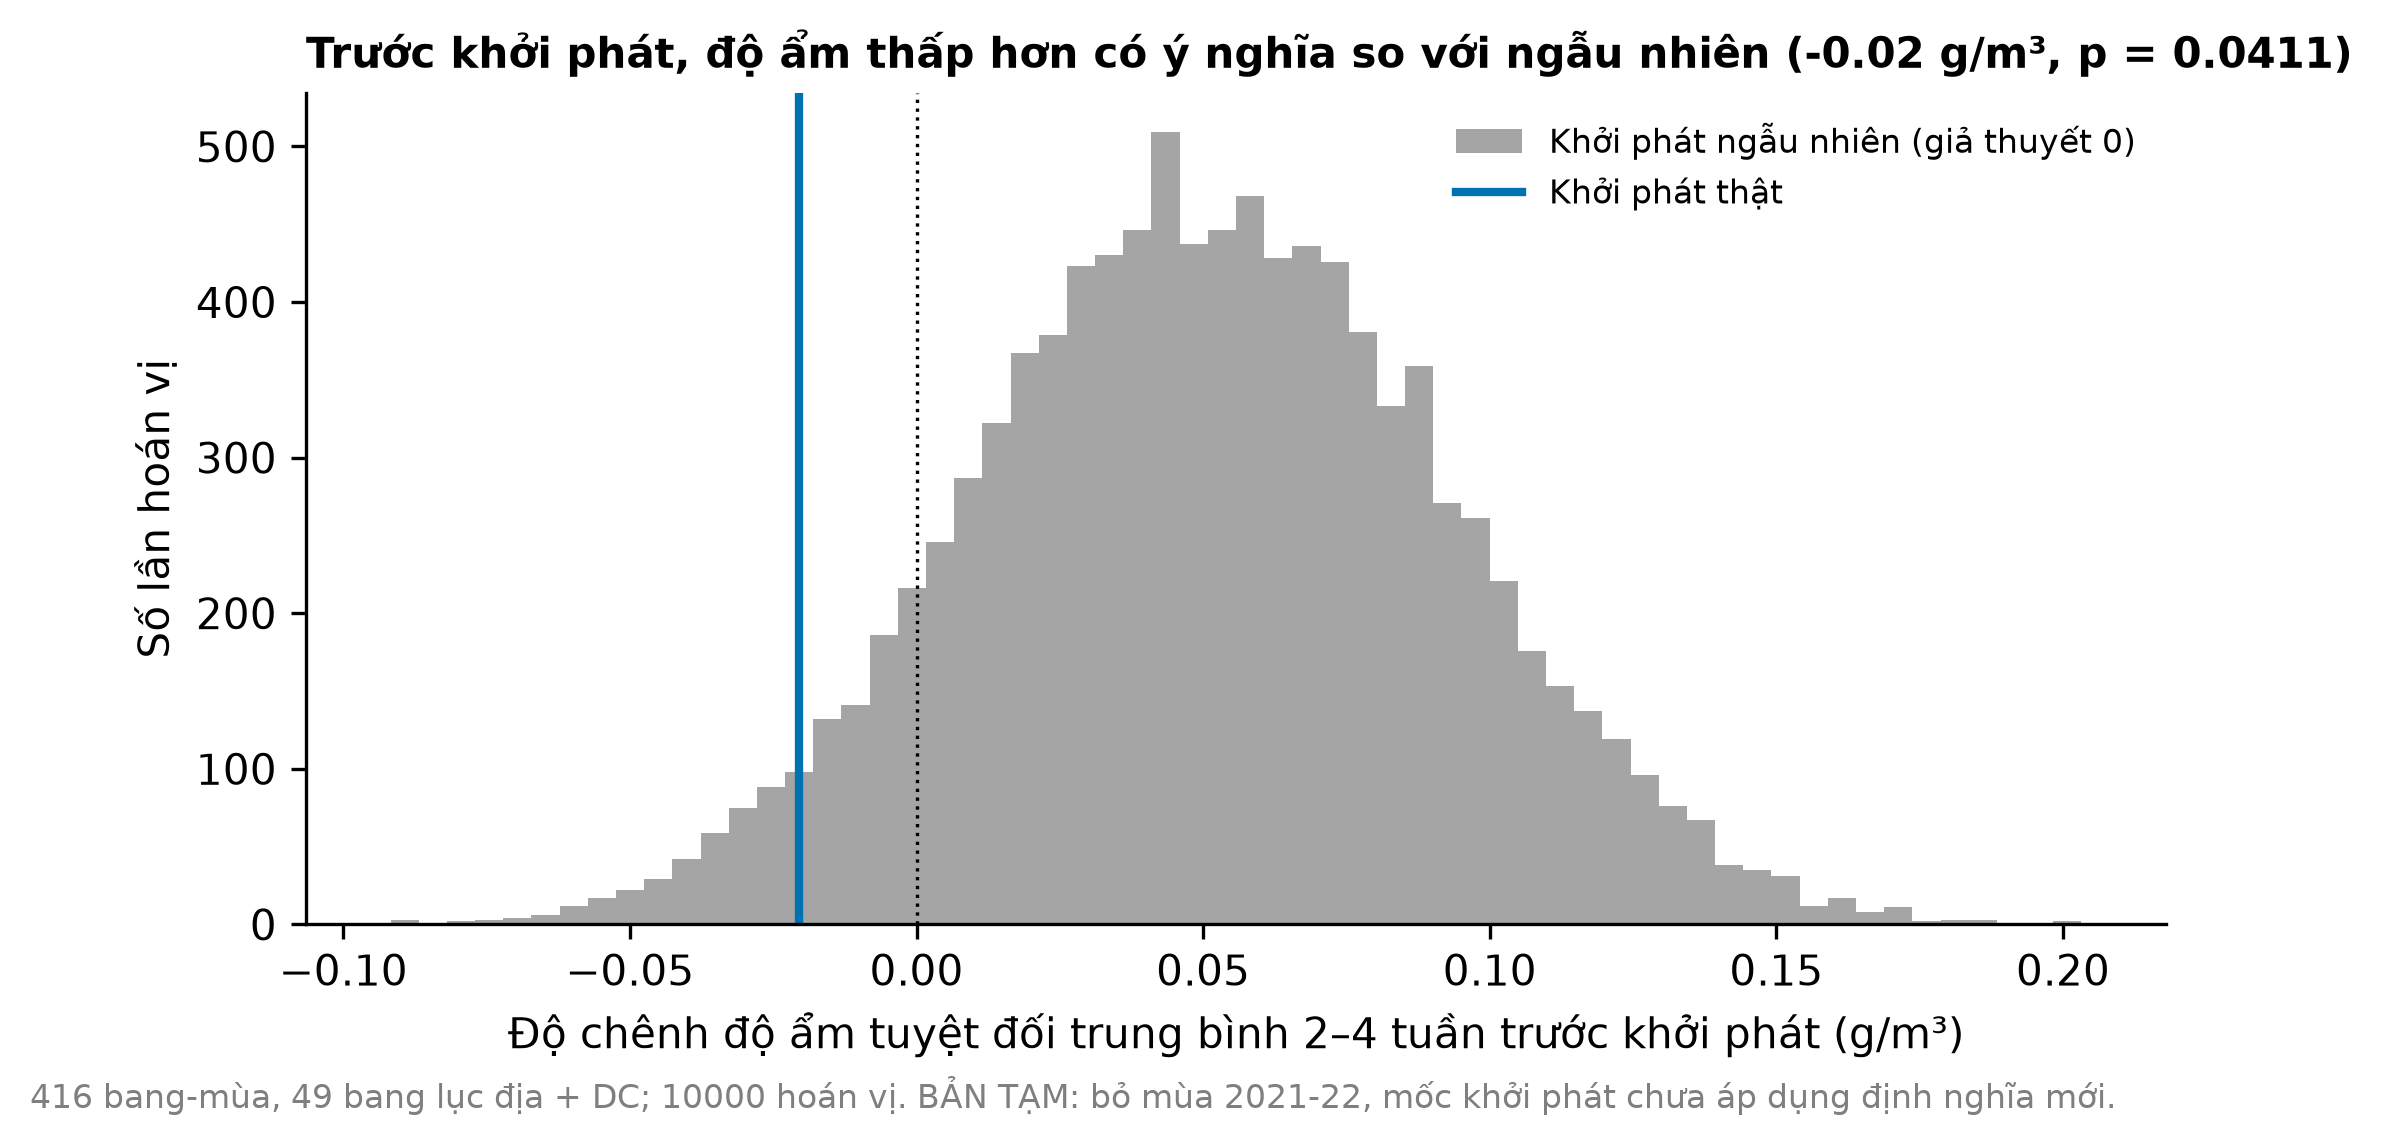
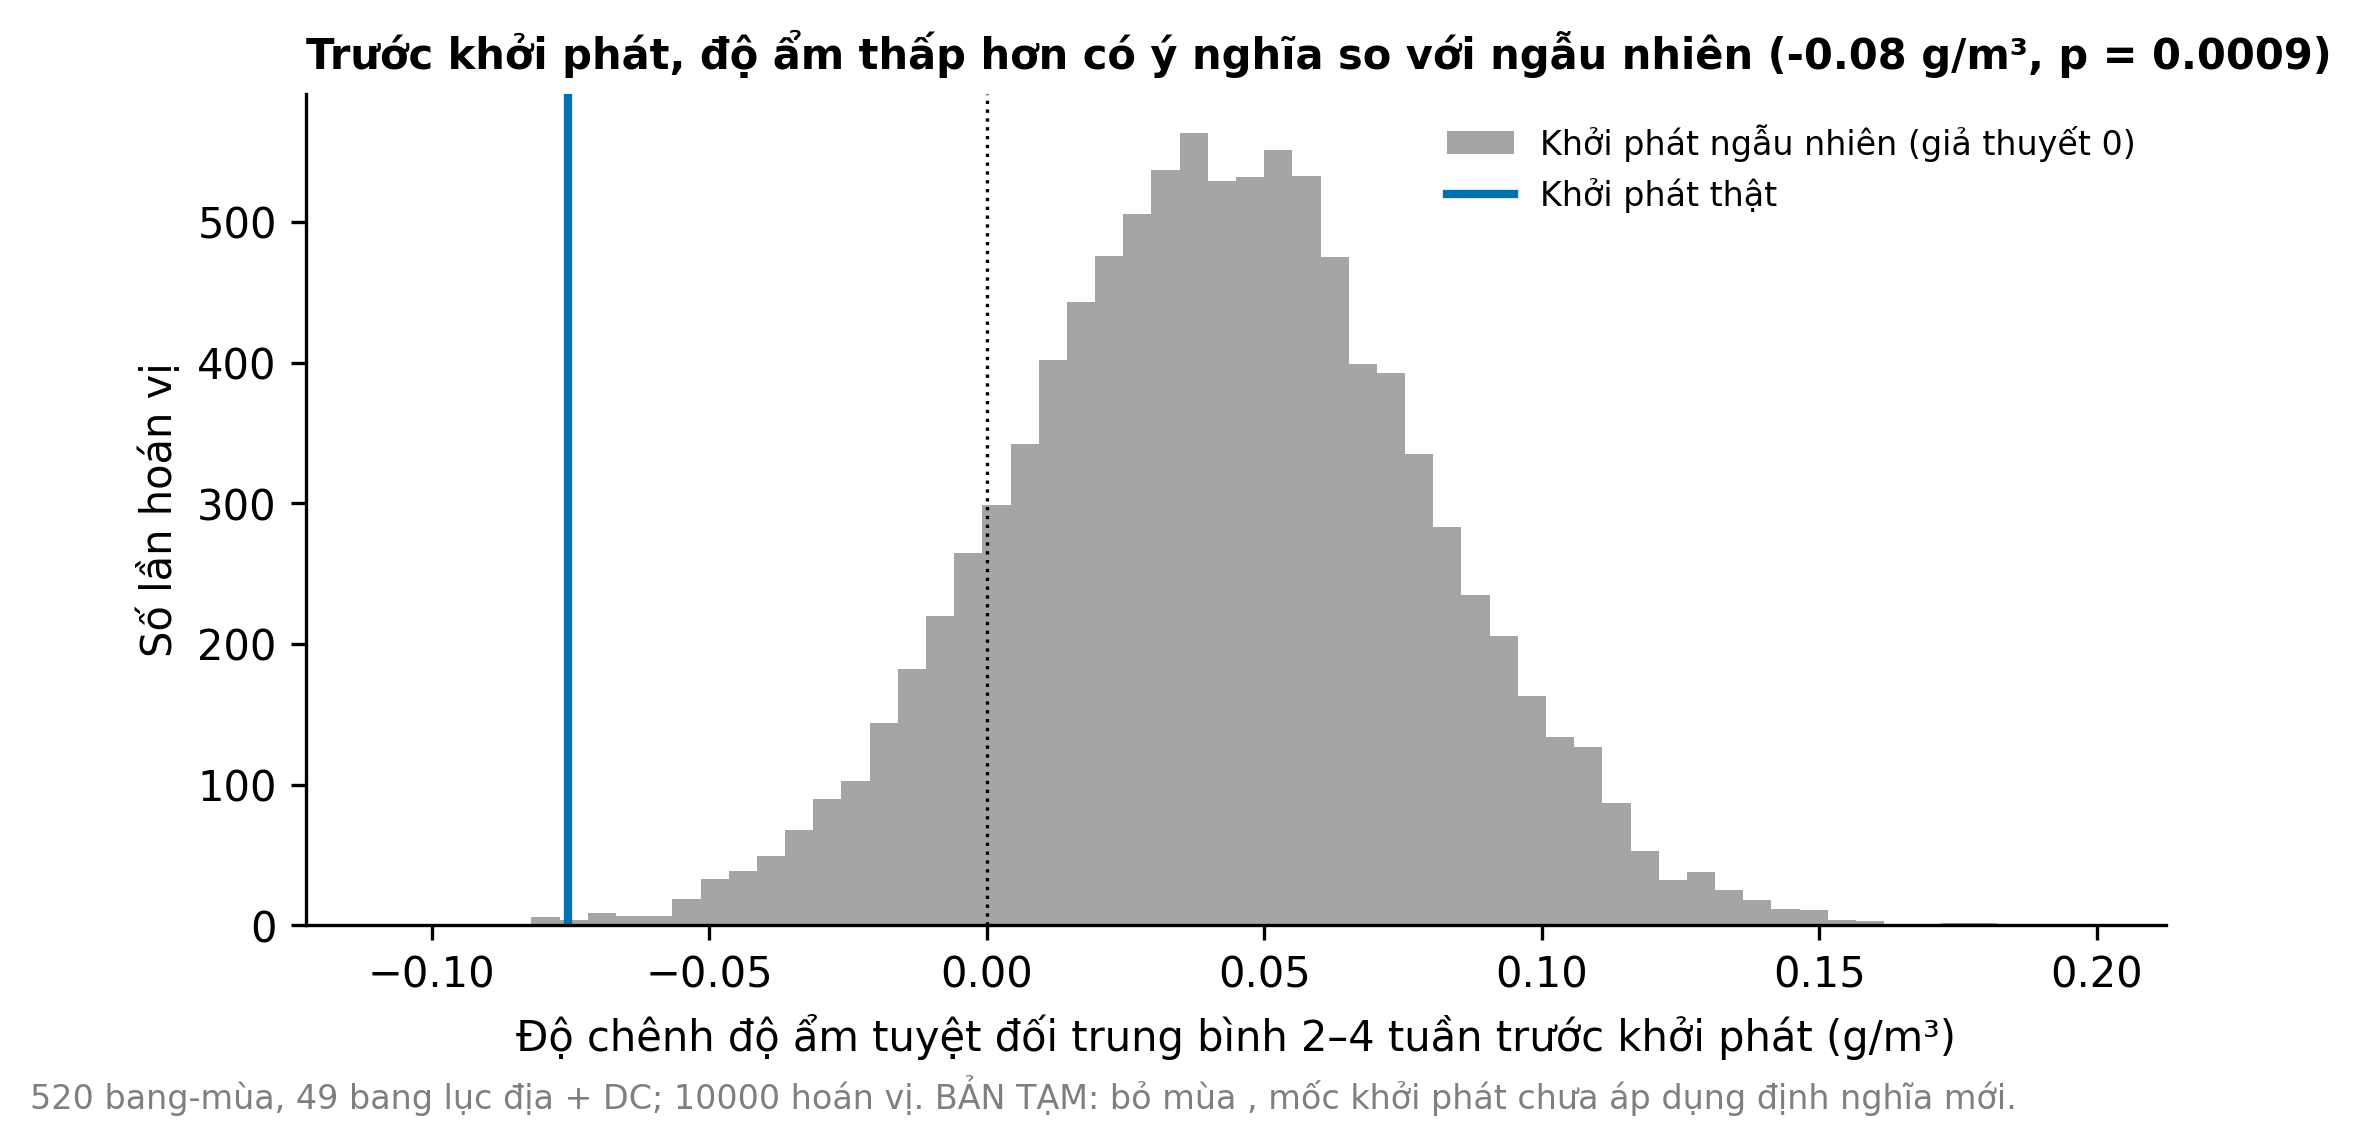
TV4 Shaman tren moc khoi phat co xet nghiem cua TV3: khong bo mua nao, 520 bang-mua, p = 0,0009; cap nhat Chuong 4 (Shaman, du lieu chen loi)

diff --git a/src/fluwatch/risk_factors/shaman.py b/src/fluwatch/risk_factors/shaman.py
@@ -6,7 +6,8 @@ Gia thuyet 0: tuan khoi phat khong lien quan do am -> thay w bang tuan ngau nhie
 cung bang-mua. Thong ke T = trung binh quan sat tren moi bang-mua; p mot phia = P(T_null <= T_obs).
 
 Luu y: Shaman 2010 xac dinh khoi phat tu tu vong do viem phoi va cum, nhom dung ILI, nen day la kiem chung gia thuyet
-voi dinh nghia khoi phat khac. Mua 2021-22 bi bo cho den khi TV3 ap dung dinh nghia khoi phat moi (nhat ky Q11).
+voi dinh nghia khoi phat khac. Moc cua TV3 da ap dung dieu kien xet nghiem duong tinh >= 2% (tu 2016-17), nen
+khong con phai bo mua 2021-22 (ban tam truoc day bo mua nay vi 22 bang 'khoi phat' gia o tuan 40).
 """
 import numpy as np
 import pandas as pd
@@ -14,7 +15,7 @@ import pandas as pd
 WINDOW = (2, 4)          # 2-4 tuan truoc khoi phat
 NULL_WEEKS = (5, 30)     # tuan mua co the la khoi phat
 N_PERM = 10000
-SKIP_SEASONS = ("2021-22",)
+SKIP_SEASONS = ()  # truoc day ("2021-22",) khi TV3 chua co dieu kien xet nghiem
 
 
 def onset_pairs(milestones, weekly, states, excluded_seasons):

diff --git a/pipelines/04_risk_factors.py b/pipelines/04_risk_factors.py
@@ -59,7 +59,7 @@ ev = evidence.table(rr, lc)
 ev.to_csv(OUT / "bang_bang_chung.csv", index=False)
 print(ev[["yeu_to", "ket_qua_nhom"]].to_string(index=False))
 
-print("4. Kiem chung Shaman 2010 (BAN TAM)")
+print("4. Kiem chung Shaman 2010 (moc khoi phat co dieu kien xet nghiem cua TV3)")
 ms_path = BUSINESS / "season_milestones.parquet"
 if ms_path.exists():
     ms = pd.read_parquet(ms_path)
